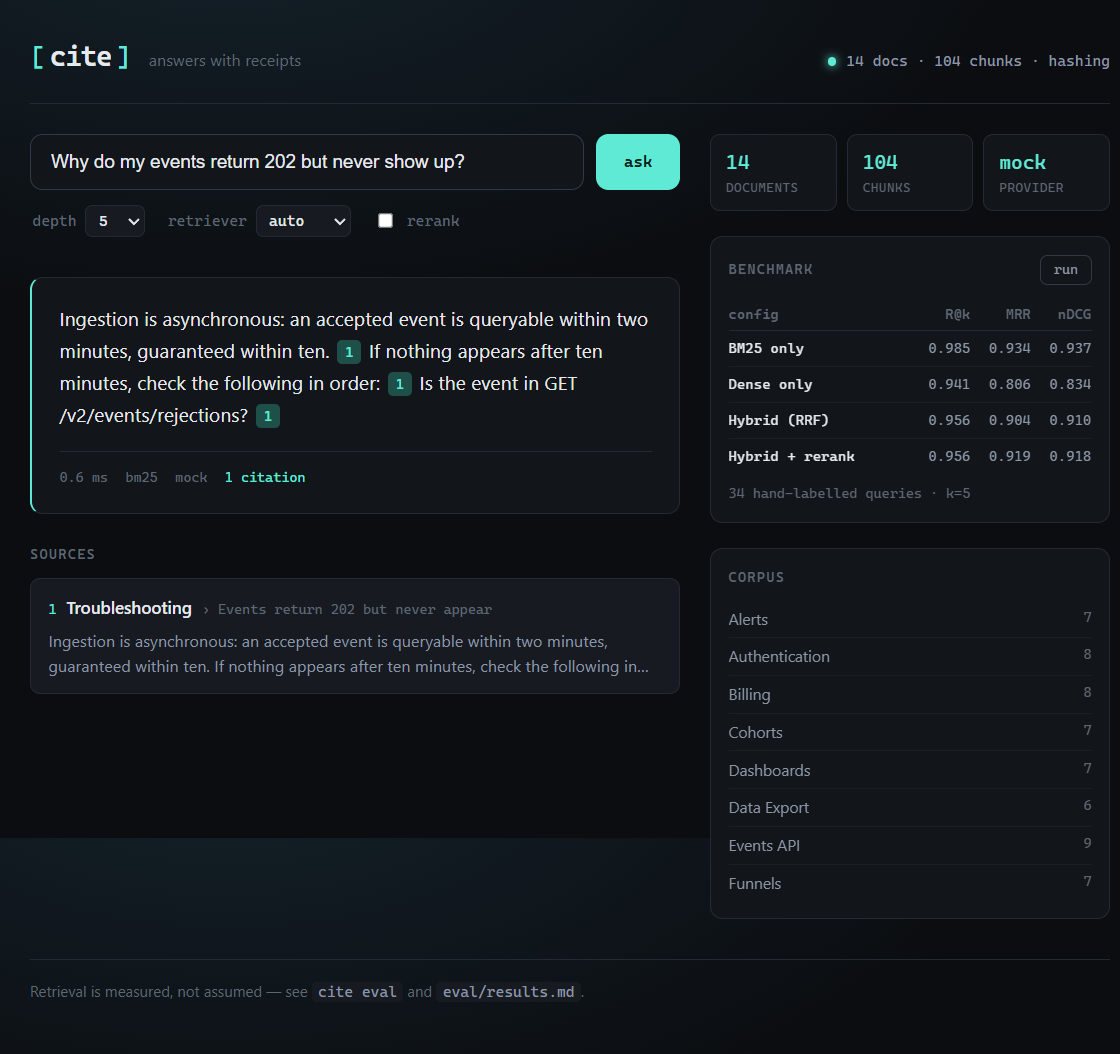
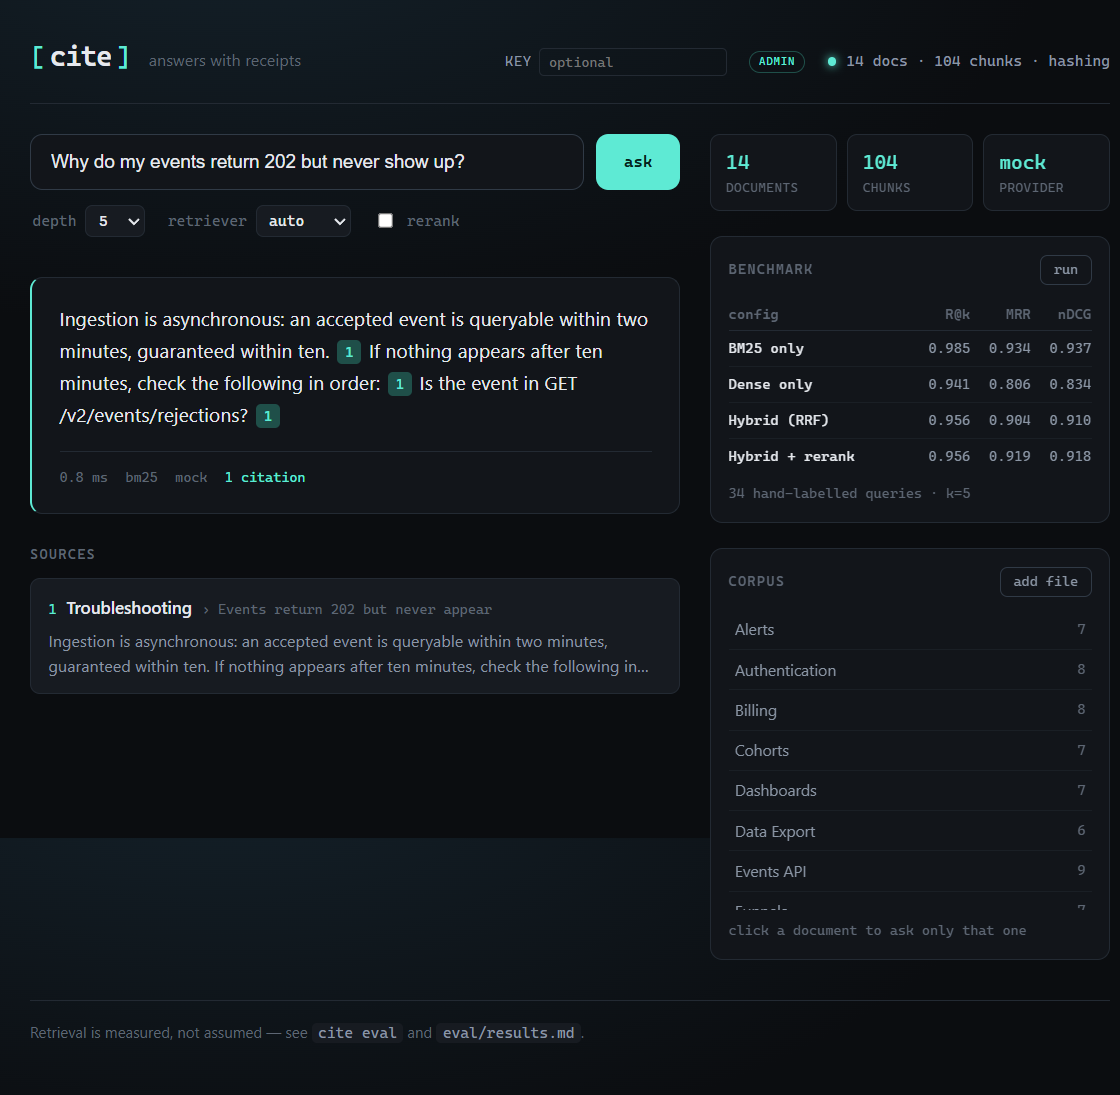
Document UI roles and troubleshooting
Explain the KEY field, the ADMIN/READER/KEY REQUIRED badge, and why add file is disabled outside an admin role. Add the missing frontend build step to the quickstart, and a troubleshooting table for dead ports, stale server routes, auth-on shells, and missing multipart support. Refresh the README screenshot to show the upload control.

diff --git a/README.md b/README.md
@@ -17,7 +17,7 @@ No API keys. No network. No GPU. The default embedder is a deterministic feature
 model, so the benchmark is reproducible on any laptop. Swapping in a hosted embedding
 model and an LLM is one environment variable.
 
-![cite UI: an answer with inline citations, clickable sources, and the live benchmark panel](docs/screenshot.png)
+![cite UI: an answer with inline citations, clickable sources, the live benchmark panel, and the admin-only upload control](docs/screenshot.png)
 
 ---
 
@@ -320,11 +320,21 @@ python -m venv .venv
 source .venv/bin/activate
 pip install -e ".[dev]"
 
+# one-time UI build; frontend/dist is gitignored
+cd frontend
+npm install
+npm run build
+cd ..
+
 cite ingest --corpus data/corpus          # 14 docs → 104 chunks in data/index.sqlite3
 cite ask "How many tiles can a dashboard have?"
 cite eval                                  # retrieval ablations + answer checks
 cite serve                                 # API + UI on http://127.0.0.1:8000
 ```
+
+The CLI needs no Node. `cite serve` only serves the UI when `frontend/dist` exists;
+without it, `/` returns JSON naming the build command instead of a page. Add `--reload`
+while working on the API: routes reload from disk, static files do not need it.
 
 `dev` includes the test tools and every loader. A runtime install can use
 `pip install -e ".[loaders]"` for HTML/PDF and `pip install -e ".[ocr]"` plus the
@@ -421,6 +431,24 @@ curl -s -X DELETE localhost:8000/api/documents/widgets
 With a semantic embedder, re-ingest using the same embedder (`--embedder openai`) so the
 indexed chunks and the incoming query are embedded in the same space. Changing the
 embedder deliberately invalidates the manifest and triggers a full rebuild.
+
+### The KEY box and the role badge
+
+The header's **KEY** field sends `X-API-Key` and is stored in this browser only. It exists
+for servers started with `CITE_API_KEYS`; when auth is off there is nothing to type.
+
+The badge beside it is the role `/api/me` reports:
+
+| badge | meaning |
+|---|---|
+| `ADMIN` | ask, upload, delete, and reindex are allowed |
+| `READER` | can ask and read granted collections; uploads stay disabled |
+| `KEY REQUIRED` | auth is on and no valid key was sent |
+| `…` | `/api/me` has not answered — usually an older server process |
+
+`add file` stays visible so the state is legible, but it is disabled unless the badge says
+`ADMIN`; hovering explains why. Entering an admin key re-fetches sources and clears the
+stale error banner.
 
 ---
 
@@ -528,6 +556,24 @@ extraction, OCR failure modes, upload validation, title and BOM handling, and tr
 manifest reuse and invalidation, JSON and SQLite round trips, per-document store patches,
 auth roles and ACLs, both rate-limit backends, usage aggregation, judge selection, document
 scoping, collection scoping, and the HTTP contract.
+
+## Troubleshooting
+
+Almost every "the UI is broken" report has one of three causes: the browser is pointed at a
+dead port, the running Python process predates the current code, or `frontend/dist` is
+missing. Static files are read from disk on every request, so a rebuilt UI needs only a
+hard refresh (`Ctrl+F5`); **routes and configuration need a restart.**
+
+| symptom | cause | fix |
+|---|---|---|
+| `URL can't be reached` | nothing listens on that port, or a test server was stopped | `Get-NetTCPConnection -LocalPort 8000 -State Listen` (macOS/Linux: `lsof -i :8000`), then `cite serve --port 8000` |
+| badge `…`, no `add file`, `/api/me` returns `404` | the process started before `/api/me` existed | stop it and restart `cite serve`; a page reload is not enough |
+| `KEY REQUIRED` or `missing API key` | the shell that started the server has `CITE_API_KEYS` set | enter a key from that list, or unset `CITE_API_KEYS`/`CITE_ADMIN_KEYS`/`CITE_KEY_ACLS` and restart |
+| `add file` disabled with badge `READER` | the key is valid but absent from `CITE_ADMIN_KEYS` | use an admin key |
+| `/` returns `{"hint":"frontend not built..."}` | `frontend/dist` is gitignored and missing | in `frontend/`: `npm install`, then `npm run build` |
+| still the old UI after `git pull` | the cached bundle | rebuild, then hard-refresh |
+| `POST /api/documents` fails on multipart | an old install or image without `python-multipart` | `pip install -e ".[dev]"` or rebuild the Docker image |
+| answers cite the corpus, not the upload | the browser tab is scoped to that document | click the document again to clear the scope |
 
 ## Deployment
 

diff --git a/docs/operations.md b/docs/operations.md
@@ -226,7 +226,9 @@ curl -s -X DELETE localhost:8000/api/documents/widgets -H "X-API-Key: $ADMIN"
 Properties:
 
 - **Admin-only.** Upload and delete use the same role check as `/api/reindex`. With
-  `CITE_API_KEYS` empty, the local caller is an admin.
+  `CITE_API_KEYS` empty, the local caller is an admin. The UI asks `/api/me` for the role
+  and keeps **add file** visible but disabled for anyone else, so a missing button is a
+  permission state rather than a rendering bug.
 - **Outside the corpus.** Files are written to `CITE_UPLOADS_DIR/<collection>/`
   (`data/uploads/default/` by default), never to `CITE_CORPUS_DIR`. Extracted text is what
   gets indexed; the original file stays on disk for later rebuilds.
@@ -293,3 +295,36 @@ These are the honest gaps before calling this multi-tenant production software:
    manual.
 7. **OCR coverage.** OCR quality depends on scan quality and installed language data; it
    is not a document-layout parser and is slow for large scan sets.
+
+## 11. Running and troubleshooting the UI
+
+`cite serve` serves `frontend/dist`, which is gitignored, so a fresh clone needs one build:
+
+```bash
+cd frontend
+npm install
+npm run build
+cd ..
+cite serve                        # http://127.0.0.1:8000
+cite serve --port 8000 --reload   # API reload; static files are read per request anyway
+```
+
+The header's **KEY** field sends `X-API-Key` and is stored in the browser only. The badge
+next to it is the role from `/api/me`: `ADMIN` (upload/delete/reindex allowed), `READER`
+(ask and granted collections only), `KEY REQUIRED` (auth on, no valid key), or `…`
+(`/api/me` did not answer). `add file` is rendered but disabled unless the role is admin,
+so a missing button now reads as a permission state rather than a broken page.
+
+| symptom | cause | fix |
+|---|---|---|
+| `URL can't be reached` | no listener on that port, or a test server was stopped | check `Get-NetTCPConnection -LocalPort 8000 -State Listen` / `lsof -i :8000`; start `cite serve` |
+| badge `…`, `/api/me` is `404` | the process predates `/api/me` | restart `cite serve`; reloading the page will not add routes |
+| `missing API key` in the UI | this shell exported `CITE_API_KEYS` | enter a key from that list, or unset `CITE_API_KEYS`, `CITE_ADMIN_KEYS`, and `CITE_KEY_ACLS` and restart |
+| `add file` disabled with `READER` | key is valid but not in `CITE_ADMIN_KEYS` | use an admin key or add it deliberately |
+| `/` returns `{"hint":"frontend not built..."}` | `frontend/dist` missing | `npm install && npm run build` in `frontend/` |
+| stale UI after `git pull` | cached bundle | rebuild, then hard-refresh |
+| `POST /api/documents` errors on multipart | install or image without `python-multipart` | reinstall the package or rebuild the image |
+
+Diagnosis order: `/api/health` (is anything there?), `/api/me` (is the process current and
+what role?), then the role badge. Static assets update on refresh; Python routes and
+environment variables only update on restart.
